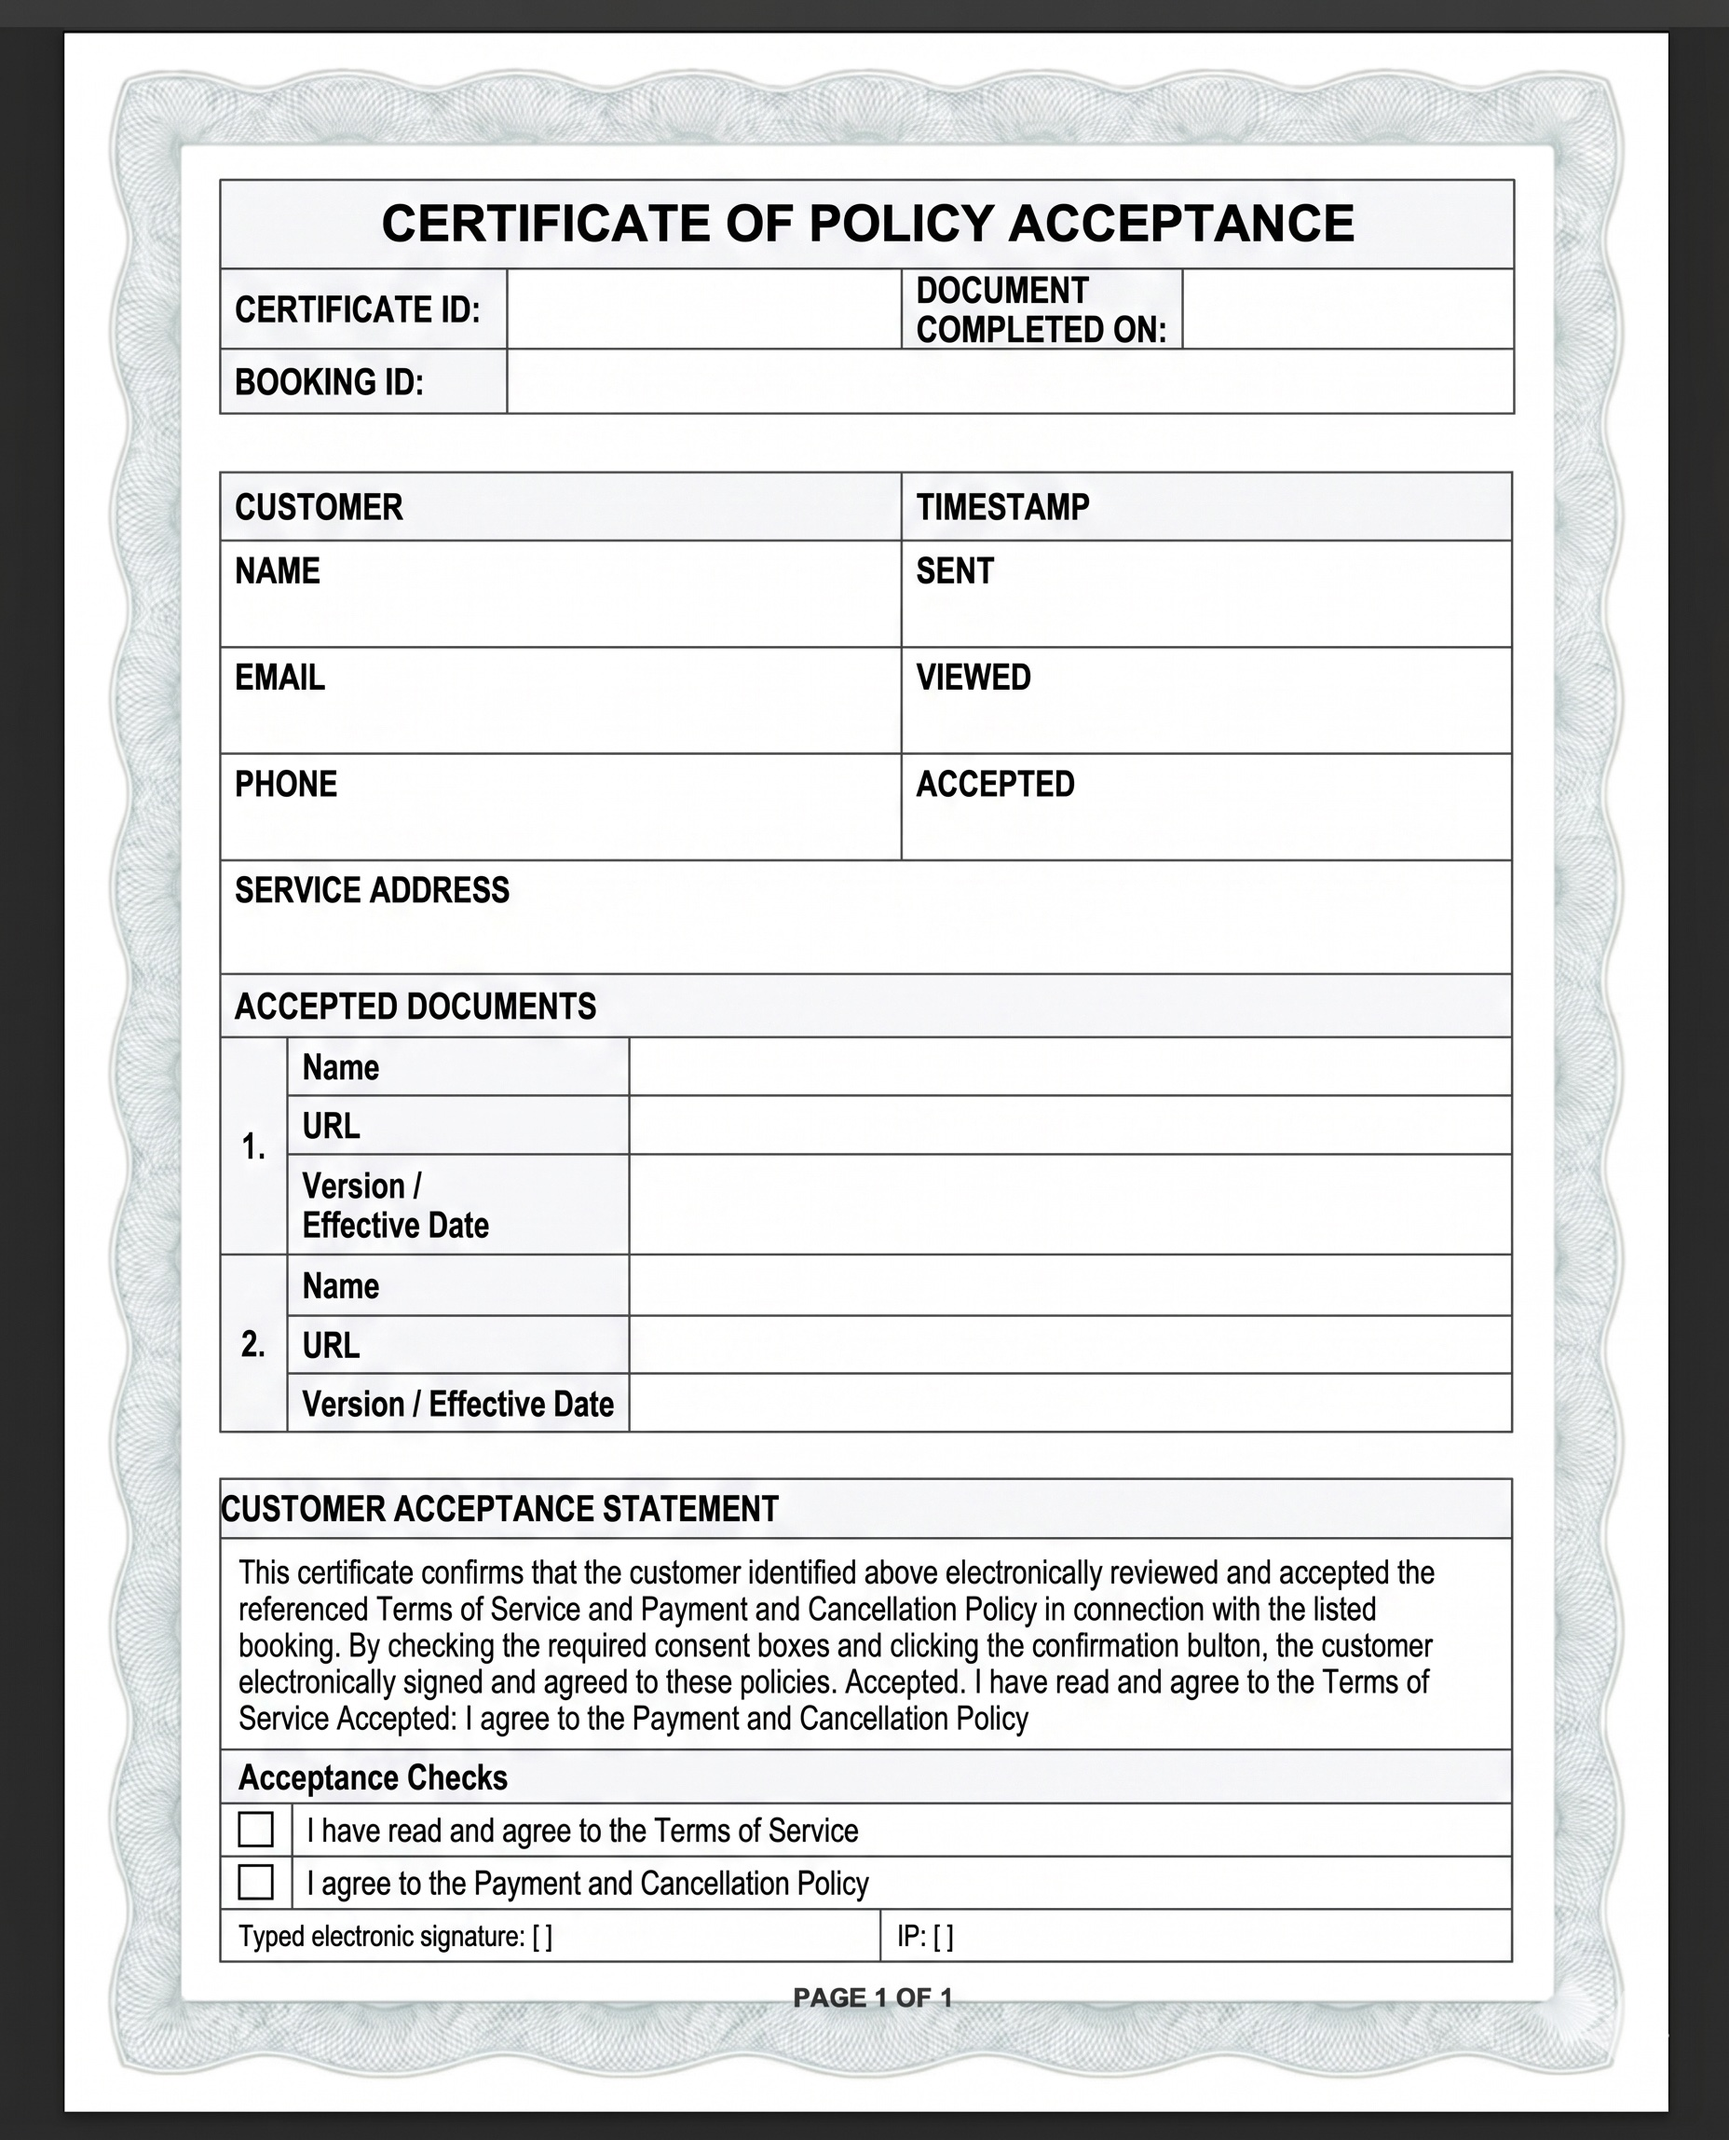
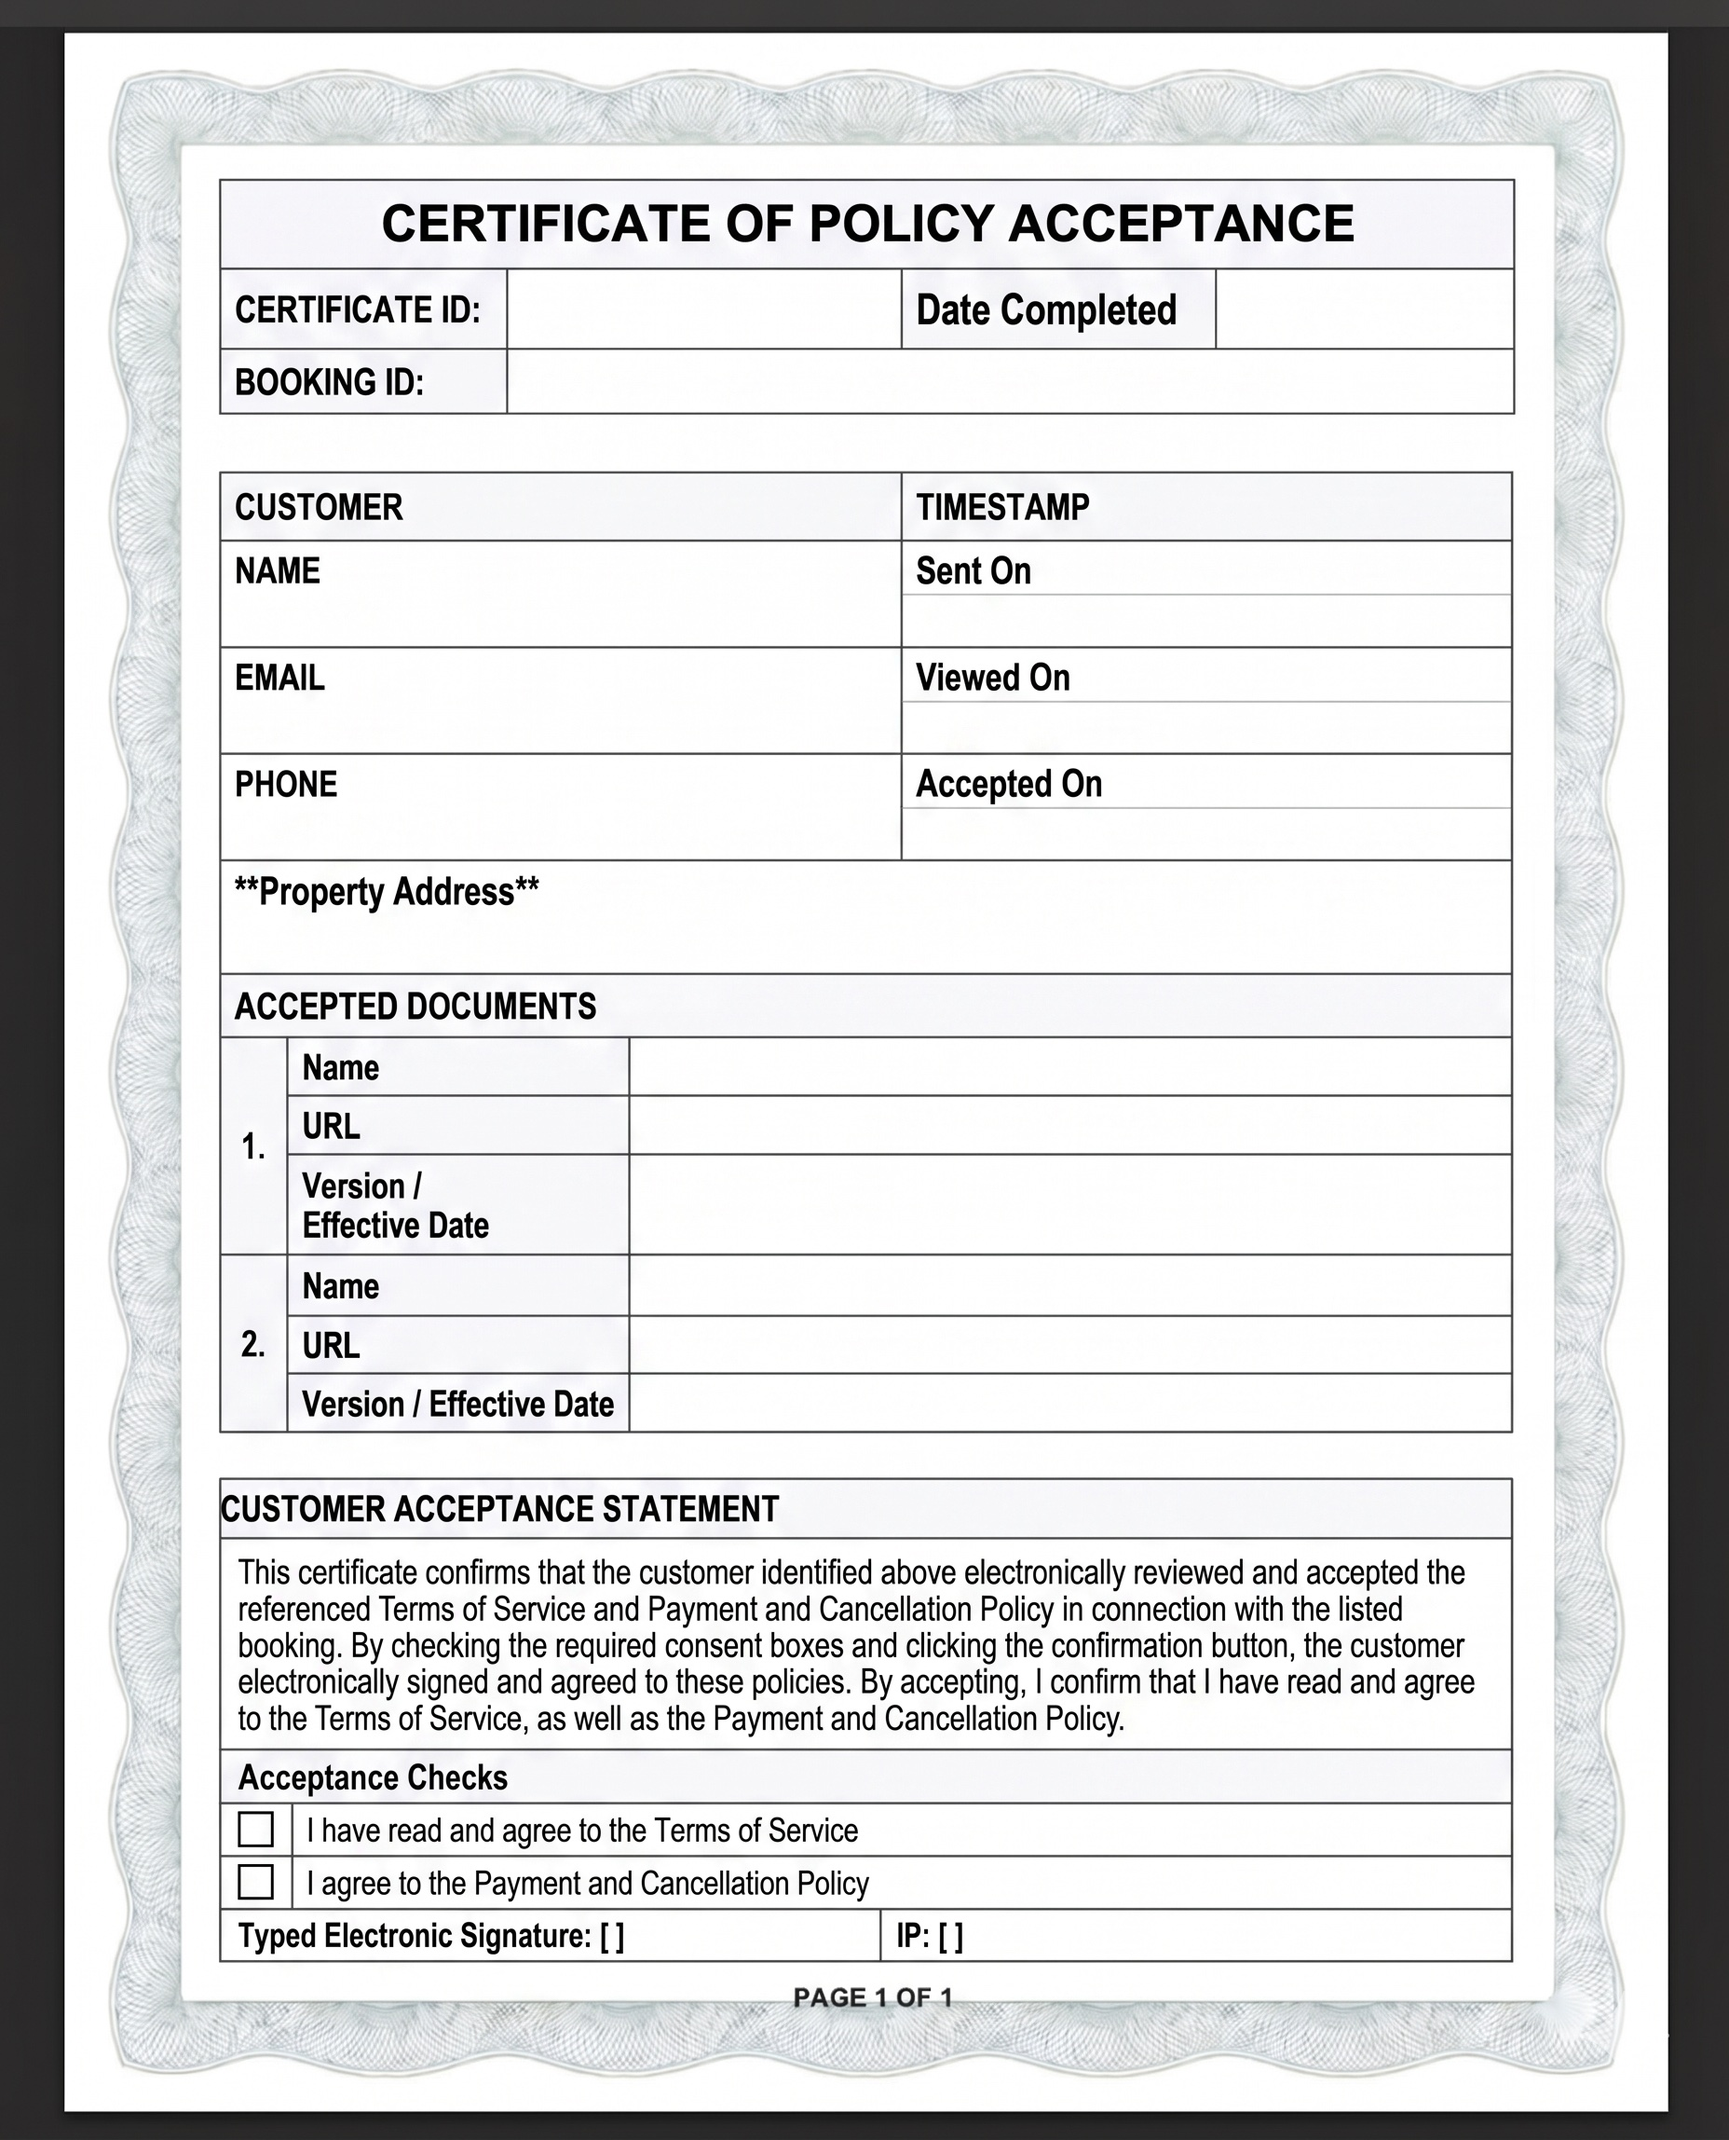
Update policy certificate form layout

diff --git a/lib/order-policy.js b/lib/order-policy.js
@@ -43,7 +43,7 @@ const POLICY_EVENT_TYPES = Object.freeze([
 const POLICY_EVENT_TYPE_SET = new Set(POLICY_EVENT_TYPES);
 const TERMS_DOCUMENT_TYPE = "TERMS_OF_SERVICE";
 const PAYMENT_DOCUMENT_TYPE = "PAYMENT_CANCELLATION_POLICY";
-const POLICY_ACCEPTANCE_CERTIFICATE_GENERATOR_VERSION = "2026-04-14-template-v3";
+const POLICY_ACCEPTANCE_CERTIFICATE_GENERATOR_VERSION = "2026-04-14-template-v4";
 let cachedPolicyAcceptanceCertificateTemplateBytesPromise = null;
 const CUSTOMER_SERVICE_LABEL_MAP = Object.freeze({
   regular: "Regular Cleaning",
@@ -689,11 +689,7 @@ function buildAcceptanceStatement(record) {
   return [
     "This certificate confirms that the customer identified above electronically reviewed and accepted the referenced Terms of Service and Payment and Cancellation Policy in connection with the listed booking.",
     "By checking the required consent boxes and clicking the confirmation button, the customer electronically signed and agreed to these policies.",
-    "",
-    record.acceptedTerms ? "Accepted: I have read and agree to the Terms of Service" : "",
-    record.acceptedPaymentCancellation
-      ? "Accepted: I agree to the Payment and Cancellation Policy"
-      : "",
+    "By accepting, I confirm that I have read and agree to the Terms of Service, as well as the Payment and Cancellation Policy.",
   ]
     .filter(Boolean)
     .join(" ");
@@ -935,6 +931,34 @@ async function generatePolicyAcceptanceCertificate(record) {
       }
     }
 
+    function drawTemplateLabeledValue(label, value, labelXPx, valueXPx, baselinePx, valueWidthPx, options = {}) {
+      const labelText = normalizeString(label, 120);
+      const labelFont = options.labelFont || fontBold;
+      const labelSize = options.labelSize || 8.4;
+      page.drawText(labelText, {
+        x: toPdfX(labelXPx),
+        y: toPdfY(baselinePx),
+        size: labelSize,
+        font: labelFont,
+        color: options.labelColor || dark,
+      });
+      drawTemplateText(value, valueXPx, baselinePx, valueWidthPx, {
+        size: options.size || 7.8,
+        minSize: options.minSize || 6,
+        maxLength: options.maxLength || 260,
+        color: options.color || dark,
+      });
+    }
+
+    function drawTemplateLine(x1Px, y1Px, x2Px, y2Px, thickness = 1) {
+      page.drawLine({
+        start: { x: toPdfX(x1Px), y: toPdfY(y1Px) },
+        end: { x: toPdfX(x2Px), y: toPdfY(y2Px) },
+        color: dark,
+        thickness,
+      });
+    }
+
     function drawTemplateCross(xPx, yPx, sizePx = 28) {
       page.drawLine({
         start: { x: toPdfX(xPx), y: toPdfY(yPx) },
@@ -1035,8 +1059,8 @@ async function generatePolicyAcceptanceCertificate(record) {
       );
     });
 
-    clearTemplateRect(238, 1684, 1384, 192);
-    drawTemplateWrappedText(buildAcceptanceStatement(sanitized), 252, 1760, 1342, {
+    clearTemplateRect(238, 1670, 1384, 206);
+    drawTemplateWrappedText(buildAcceptanceStatement(sanitized), 252, 1768, 1342, {
       size: 8,
       lineHeight: 9.2,
       maxLines: 7,
@@ -1050,18 +1074,28 @@ async function generatePolicyAcceptanceCertificate(record) {
       drawTemplateCross(258, 2000, 28);
     }
 
-    clearTemplateRect(588, 2049, 344, 52);
-    clearTemplateRect(1004, 2049, 605, 52);
-    drawTemplateText(sanitized.typedSignature || "Not set", 603, 2087, 310, {
-      size: 7.8,
-      minSize: 6,
-      maxLength: 220,
-    });
-    drawTemplateText(
+    clearTemplateRect(242, 2049, 760, 52);
+    clearTemplateRect(1008, 2049, 608, 52);
+    drawTemplateLabeledValue(
+      "Typed Electronic Signature:",
+      sanitized.typedSignature || "Not set",
+      250,
+      760,
+      2087,
+      220,
+      {
+        size: 7.8,
+        minSize: 6,
+        maxLength: 220,
+      }
+    );
+    drawTemplateLabeledValue(
+      "IP:",
       `${sanitized.ipAddress || "Unknown"}${sanitized.locationText ? ` - ${sanitized.locationText}` : ""}`,
       1018,
+      1065,
       2087,
-      570,
+      530,
       {
         size: 7.8,
         minSize: 6,
